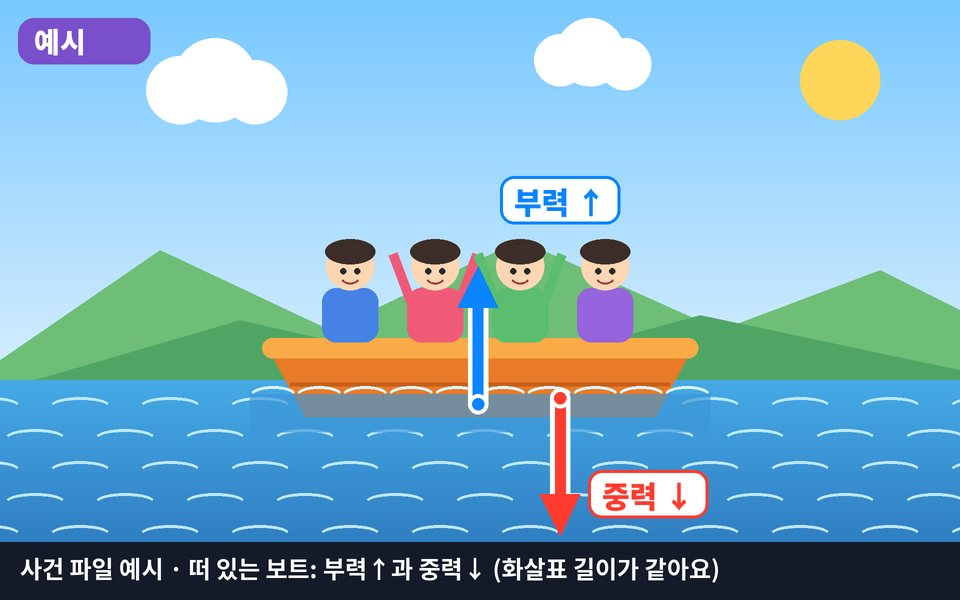
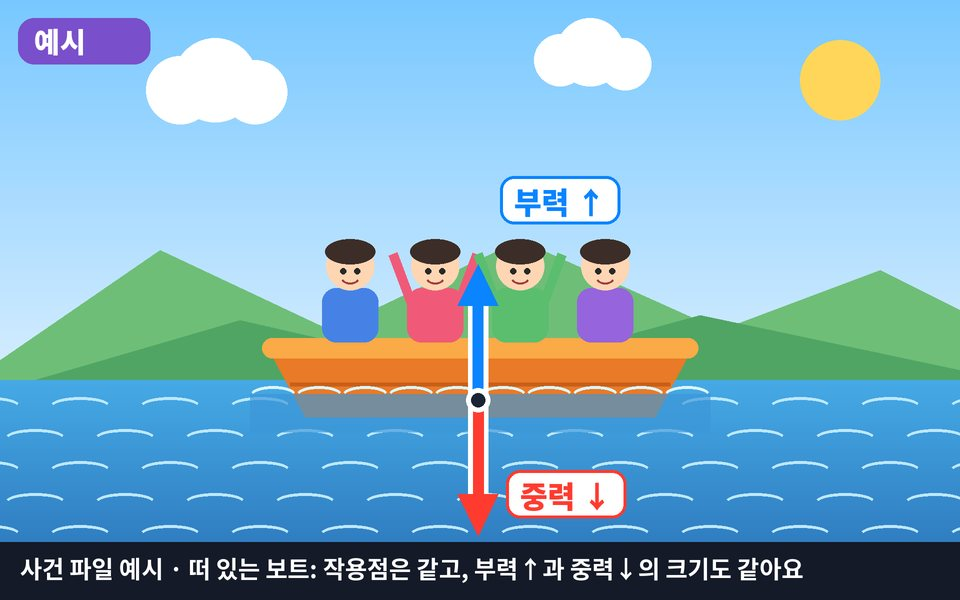
사건 파일 예시: 부력·중력 작용점을 보트 중심 한 점으로 통일
Claude-Session: https://claude.ai/code/session_015rFmoJ2WNhY8ZdNQv7PwpS

Changed region(s): [[0.4688, 0.63, 0.75, 0.9], [0.3125, 0.93, 0.8438, 0.99], [0.4688, 0.45, 0.5312, 0.54]]

diff --git a/index.html b/index.html
@@ -419,7 +419,7 @@ nav button.on{color:var(--sky);background:var(--skyS)}
 <h2 class="sec">🕵 힘 탐정 사무소 · 현장 출동! <span style="font-size:13px;color:var(--ink2)">(탐정 1인 1건)</span></h2>
   <div class="card">
     <div class="muted" style="margin-bottom:8px">탐정 여러분, 오늘의 수사 현장은 <b>서울랜드</b>! 힘이 숨어 있는 장면을 찾아 <b>증거 사진</b>을 찍고, <b>힘의 방향을 화살표로 표시</b>해서 <b>소장님께 보고</b>하세요. 탐정 1명당 1건, 다시 보내면 새 보고로 바뀌어요.</div>
-    <img src="media/detective-example.jpg" alt="사건 파일 예시: 물 위에 떠 있는 보트에 부력과 중력을 화살표로 표시한 그림" loading="lazy" style="width:100%;border-radius:12px;margin-bottom:10px;display:block;aspect-ratio:8/5;background:var(--line)">
+    <img src="media/detective-example.jpg?v=2" alt="사건 파일 예시: 물 위에 떠 있는 보트에 부력과 중력을 화살표로 표시한 그림" loading="lazy" style="width:100%;border-radius:12px;margin-bottom:10px;display:block;aspect-ratio:8/5;background:var(--line)">
     <div class="pick" id="sciForce"></div>
     <input class="field" id="sciCap" maxlength="80" placeholder="수사 메모: 어디에서 어떤 힘이? (예: 바이킹이 내려올 때 중력)">
     <input type="file" id="sciFile" accept="image/*" style="display:none">
